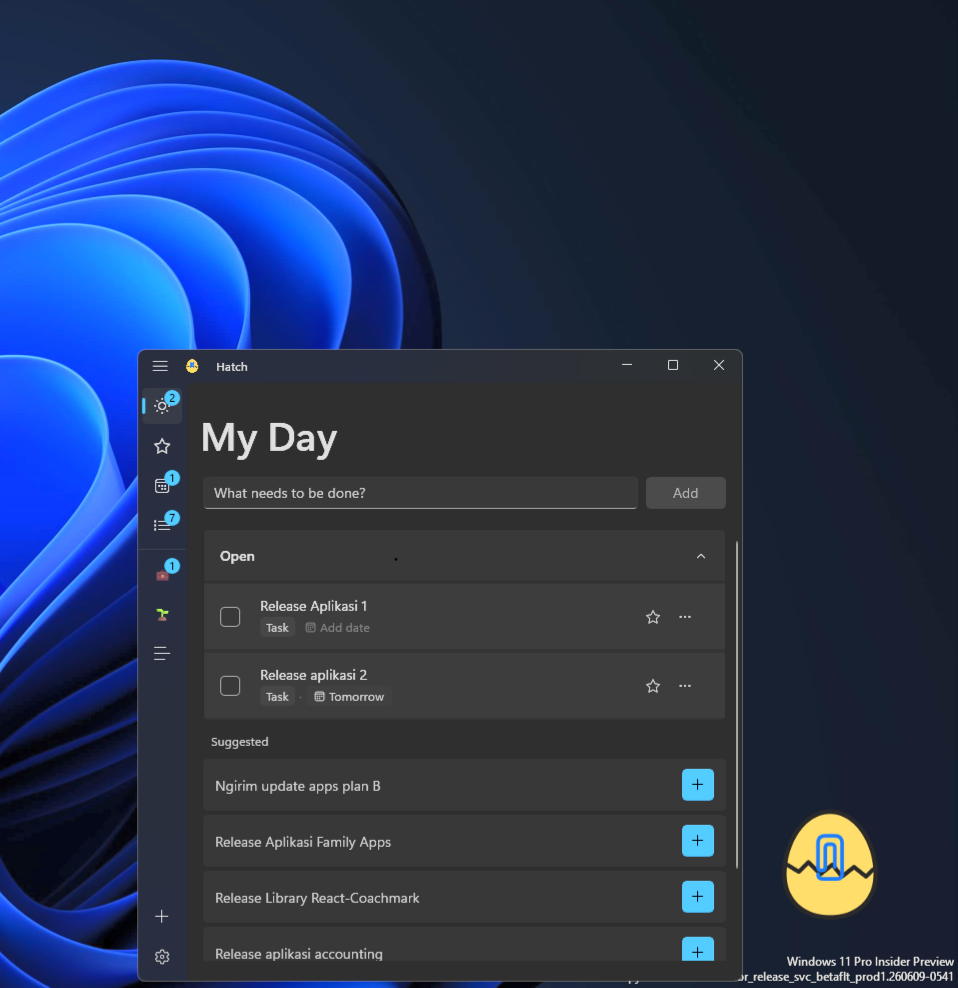
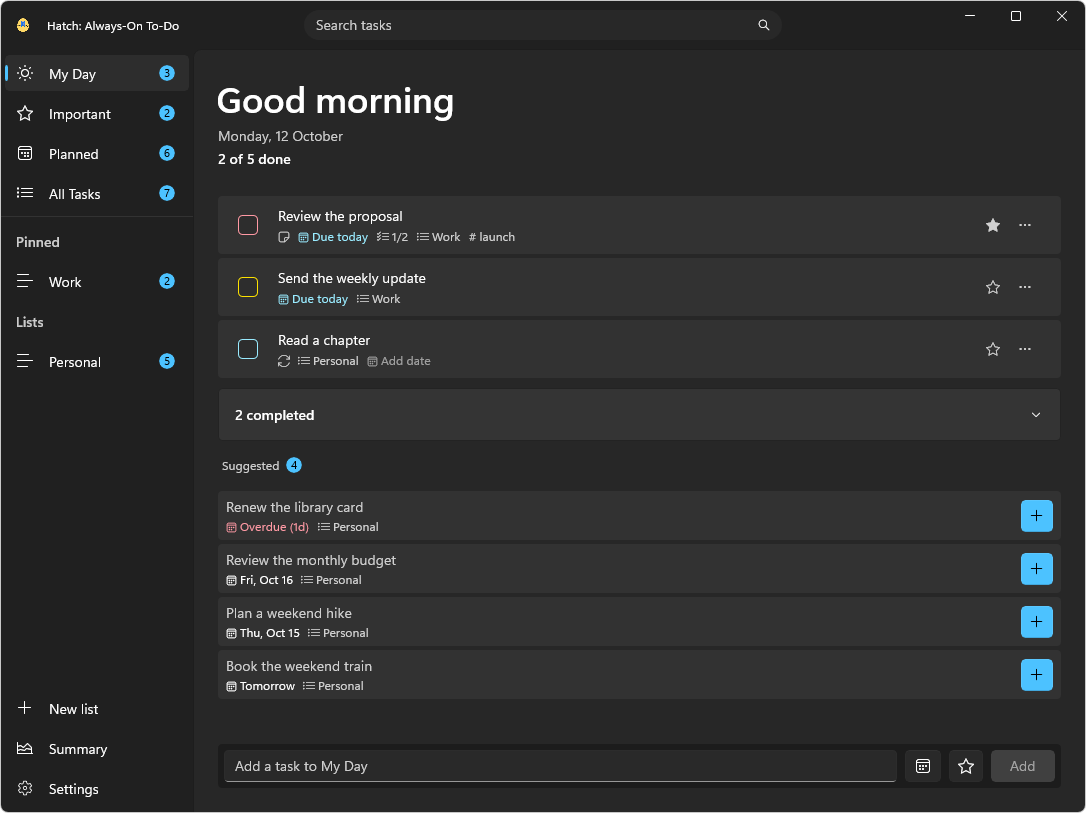
docs: refresh README and feature screenshots

diff --git a/README.md b/README.md
@@ -15,14 +15,42 @@
   </p>
 </div>
 
-![Hatch My Day screen](docs/screenshots/02-my-day.png)
+![Hatch My Day with a daily plan, task priorities, and completed tasks](docs/screenshots/02-my-day.png)
+
+Capture a task when it comes to mind. Choose what matters today, and keep upcoming deadlines in view.
 
 ## Features
 
-- Capture tasks from the always-on-top desktop mascot.
-- Organize work with My Day, custom lists, tags, due dates, recurrence, and checklists.
+- **Quick capture:** add tasks from the desktop mascot, with optional due dates and an Important mark.
+- **Your daily plan:** choose tasks for My Day and see your progress as you complete them.
+- **Upcoming deadlines:** browse Planned as an agenda or calendar, see tasks due on a selected day, and jump to overdue tasks.
+- **Details when you need them:** organize tasks with custom lists, notes, tags, priorities, recurring tasks, and checklists.
 - Use Focus Mode and the Windows 11 My Day widget.
 - Keep tasks on your device or enable end-to-end encrypted sync with the [Android companion](https://github.com/fbtwitter/hatch-mobile).
+
+## A closer look
+
+### Capture from your desktop
+
+Click the mascot to open Quick Add. Give the task a title, choose its list, and add a due date or mark it Important before saving.
+
+<p align="center">
+  <img src="docs/screenshots/08-mascot-quick-add.png" width="552" alt="Hatch desktop mascot beside its open Quick Add bubble, with a sample task, list, due date, and Important button">
+</p>
+
+### See what's due
+
+Planned opens as an agenda. Switch to Calendar to browse deadlines by day; choosing a date also sets the due date for a fresh task draft. An Overdue shortcut keeps missed deadlines within reach.
+
+![Hatch Planned calendar with due-date markers and tasks for the selected day](docs/screenshots/06-planned-calendar.png)
+
+### Keep the next step clear
+
+Break a bigger task into steps and keep useful notes alongside it. Set a due date and priority, or use the separate Important star to keep it within reach.
+
+![Hatch task details with notes, a checklist, due date, and a priority-coloured completion checkbox](docs/screenshots/07-task-details.png)
+
+*The task-list examples use sample tasks.* [Browse all screenshots](docs/screenshots/).
 
 ## Install
 
